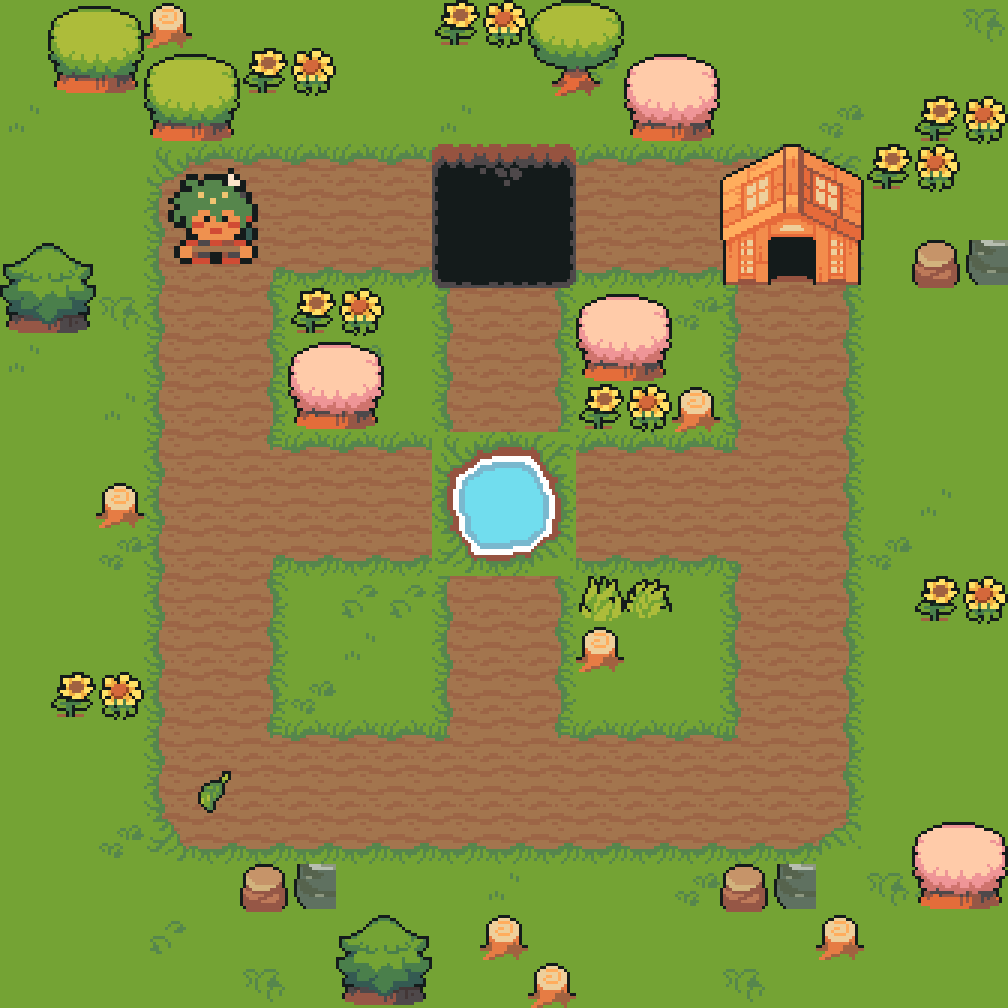
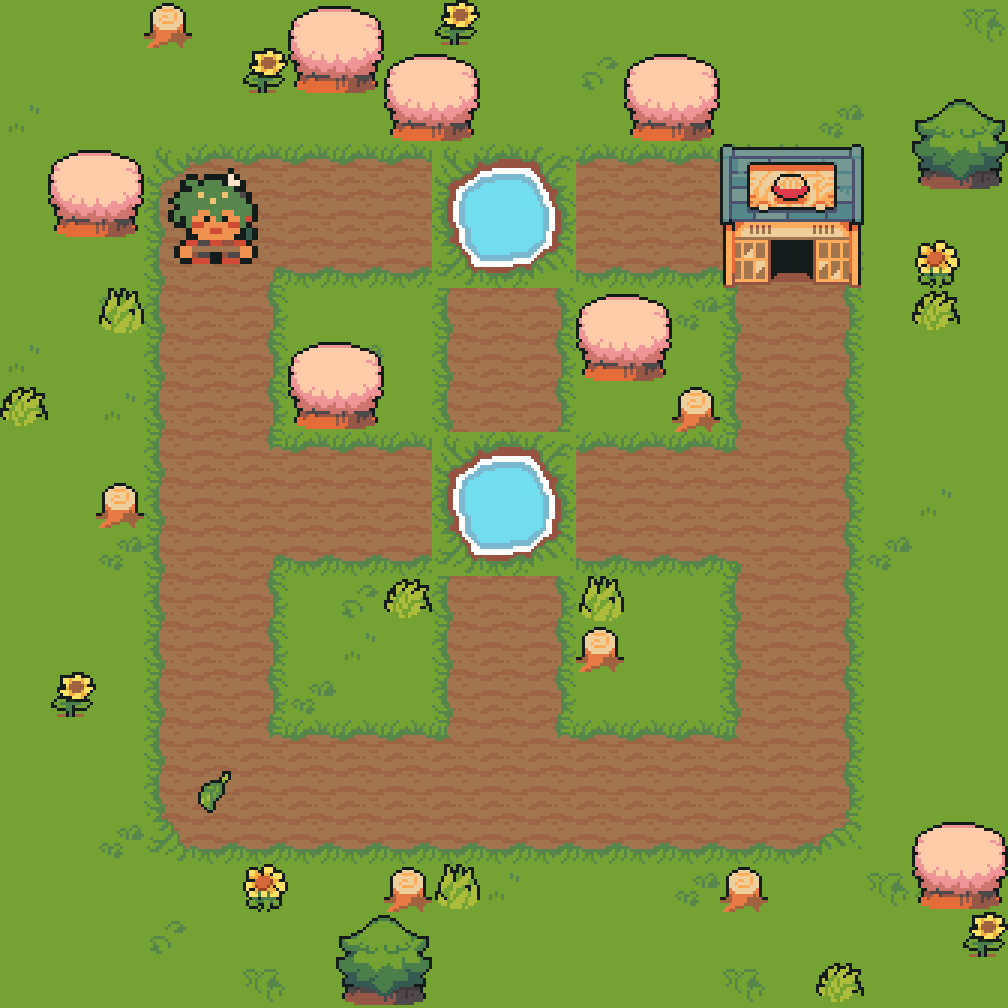
Thealivery : décor sans rochers, fleurs et herbes séparées
Les rochers quittent le décor ; les fleurs et les herbes hautes, qui
allaient par deux, sont tirées tuile par tuile. Images régénérées : le
tirage au hasard change aussi les obstacles.

diff --git a/conception/jeu/niveaux/generer.py b/conception/jeu/niveaux/generer.py
@@ -51,8 +51,10 @@ def recolor(img):
 POND = recolor(tile(WATER, 0, 6, 3, 3))
 PIT = tile(HOLE, 0, 0, 3, 3)
 LEAF = Image.open(os.path.join(P, "Items", "Food", "TeaLeaf.png")).convert("RGBA")
+# Décor : quatre arbres (2 x 2), deux fleurs, une souche et deux touffes d'herbe
+# haute, chacune sur une seule tuile. Les rochers ont été retirés.
 DECOR = [tile(NATURE, 0, 0, 2, 2), tile(NATURE, 2, 0, 2, 2), tile(NATURE, 14, 0, 2, 2), tile(NATURE, 6, 8, 2, 2),
-         tile(NATURE, 0, 11, 2, 1), tile(NATURE, 15, 9, 2, 1), tile(NATURE, 4, 8, 1, 1), tile(NATURE, 4, 10, 2, 1)]
+         tile(NATURE, 0, 11), tile(NATURE, 1, 11), tile(NATURE, 4, 8), tile(NATURE, 4, 10), tile(NATURE, 5, 10)]
 HERO = Image.open(os.path.join(P, "Actor", "Character", "Cavegirl", "SpriteSheet.png")).convert("RGBA")
 HERO_COL = {">": 3, "<": 2, "^": 1, "v": 0}  # colonnes de la planche : bas, haut, gauche, droite
 

diff --git a/conception/jeu/04-conception-du-jeu.md b/conception/jeu/04-conception-du-jeu.md
@@ -439,15 +439,15 @@ la génération des images.
 Choix de Vincent sur les [planches de propositions](propositions/), le 19
 novembre 2026 :
 
-| Élément    | Choix                                                                            |
-| :--------- | :------------------------------------------------------------------------------- |
-| Personnage | `Cavegirl`, qui incarne **Théa, la livreuse de thé**, en double taille (32 × 32) |
-| Routes     | Terre sur herbe foncée                                                           |
-| Maisons    | Au hasard parmi la boutique, la maison de pierre et le pignon orange             |
-| Obstacles  | Au hasard : une mare, où Théa tombe et nage, ou un trou, où elle tombe           |
-| Feuilles   | `TeaLeaf`                                                                        |
-| Charrette  | **Abandonnée** : le pack ne la dessine que d'un seul côté                        |
-| Décor      | Au hasard parmi les huit éléments proposés                                       |
+| Élément    | Choix                                                                                            |
+| :--------- | :----------------------------------------------------------------------------------------------- |
+| Personnage | `Cavegirl`, qui incarne **Théa, la livreuse de thé**, en double taille (32 × 32)                 |
+| Routes     | Terre sur herbe foncée                                                                           |
+| Maisons    | Au hasard parmi la boutique, la maison de pierre et le pignon orange                             |
+| Obstacles  | Au hasard : une mare, où Théa tombe et nage, ou un trou, où elle tombe                           |
+| Feuilles   | `TeaLeaf`                                                                                        |
+| Charrette  | **Abandonnée** : le pack ne la dessine que d'un seul côté                                        |
+| Décor      | Au hasard : quatre arbres, une souche, et fleurs et herbes hautes tuile par tuile ; sans rochers |
 
 Les images sont dans [`niveaux/`](niveaux/), produites par
 [`niveaux/generer.py`](niveaux/generer.py) à partir du pack. Les rues font trois
